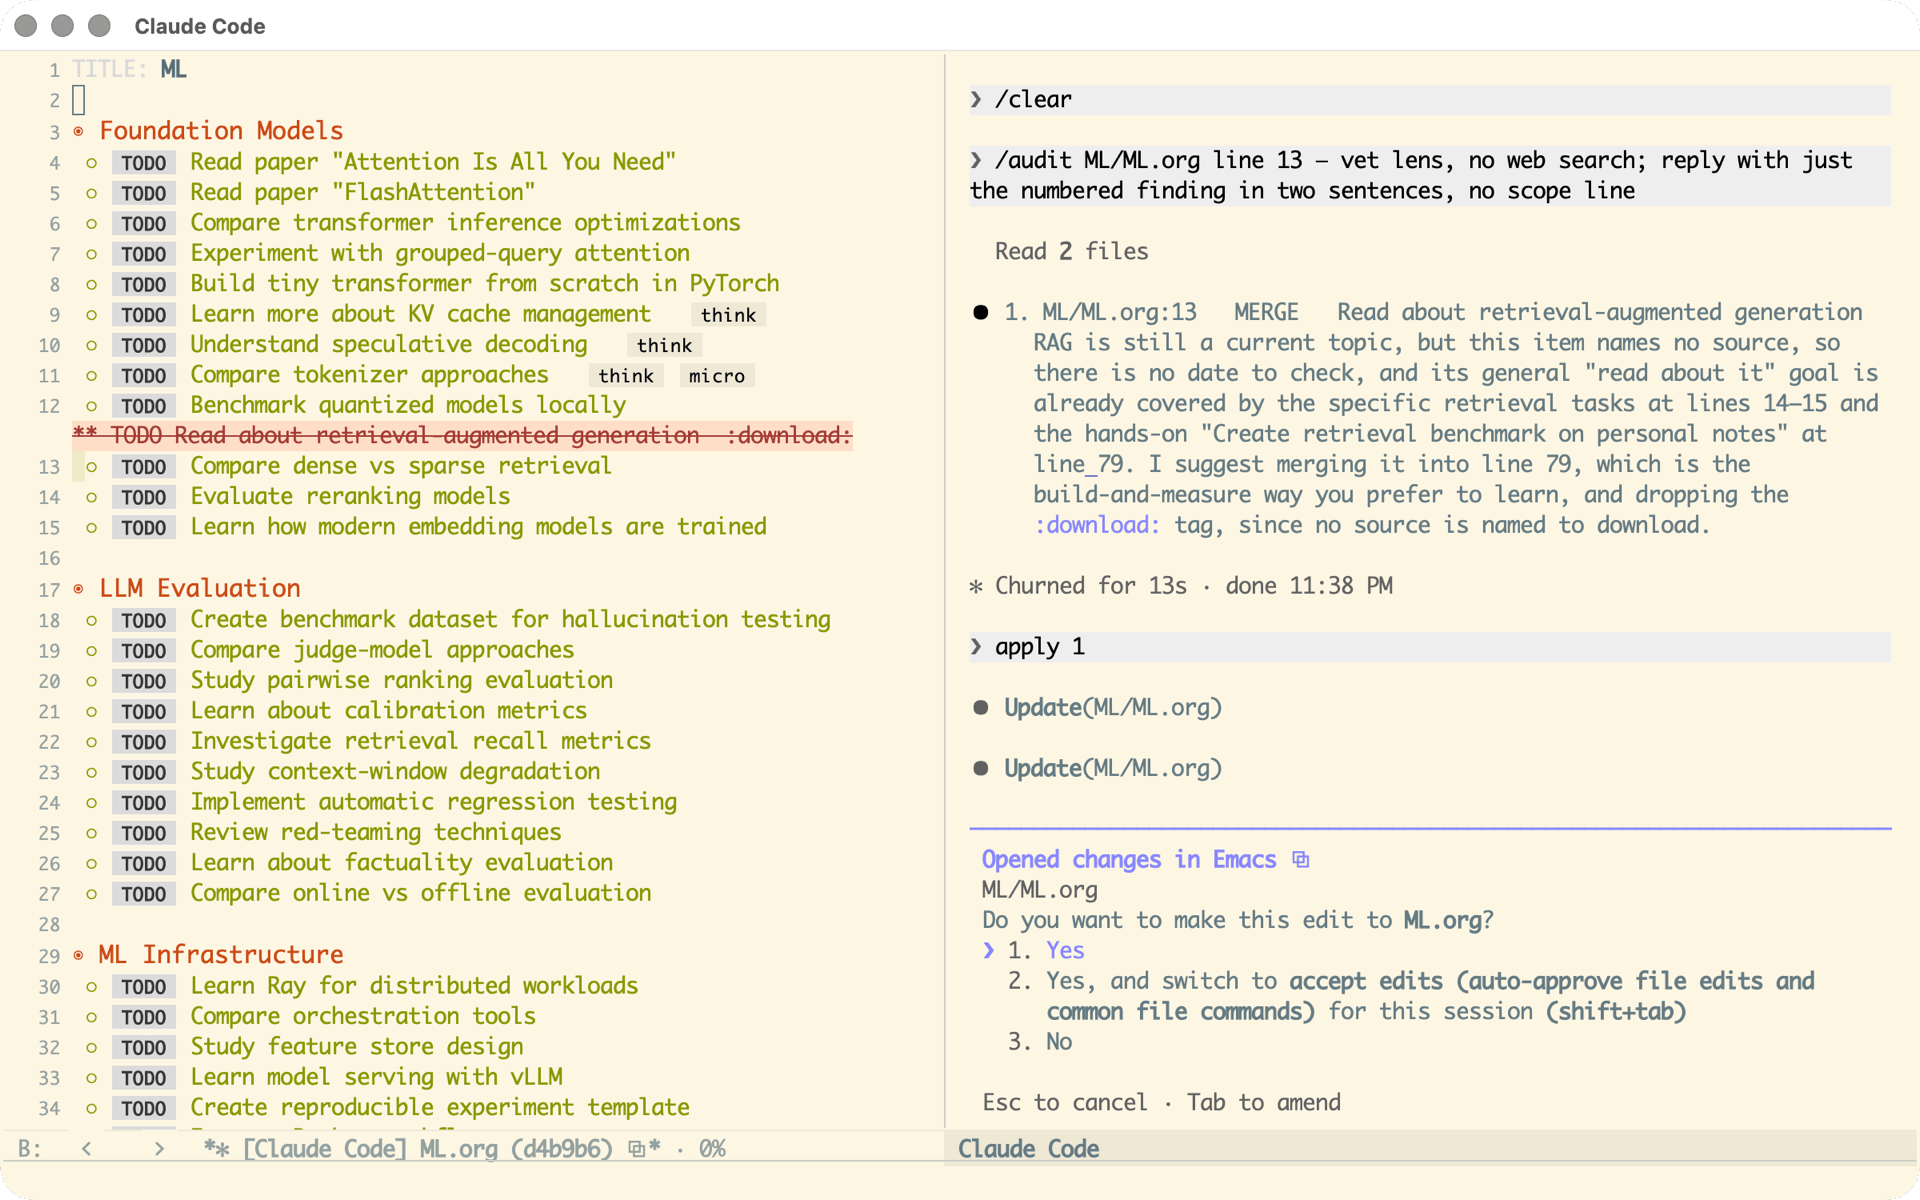
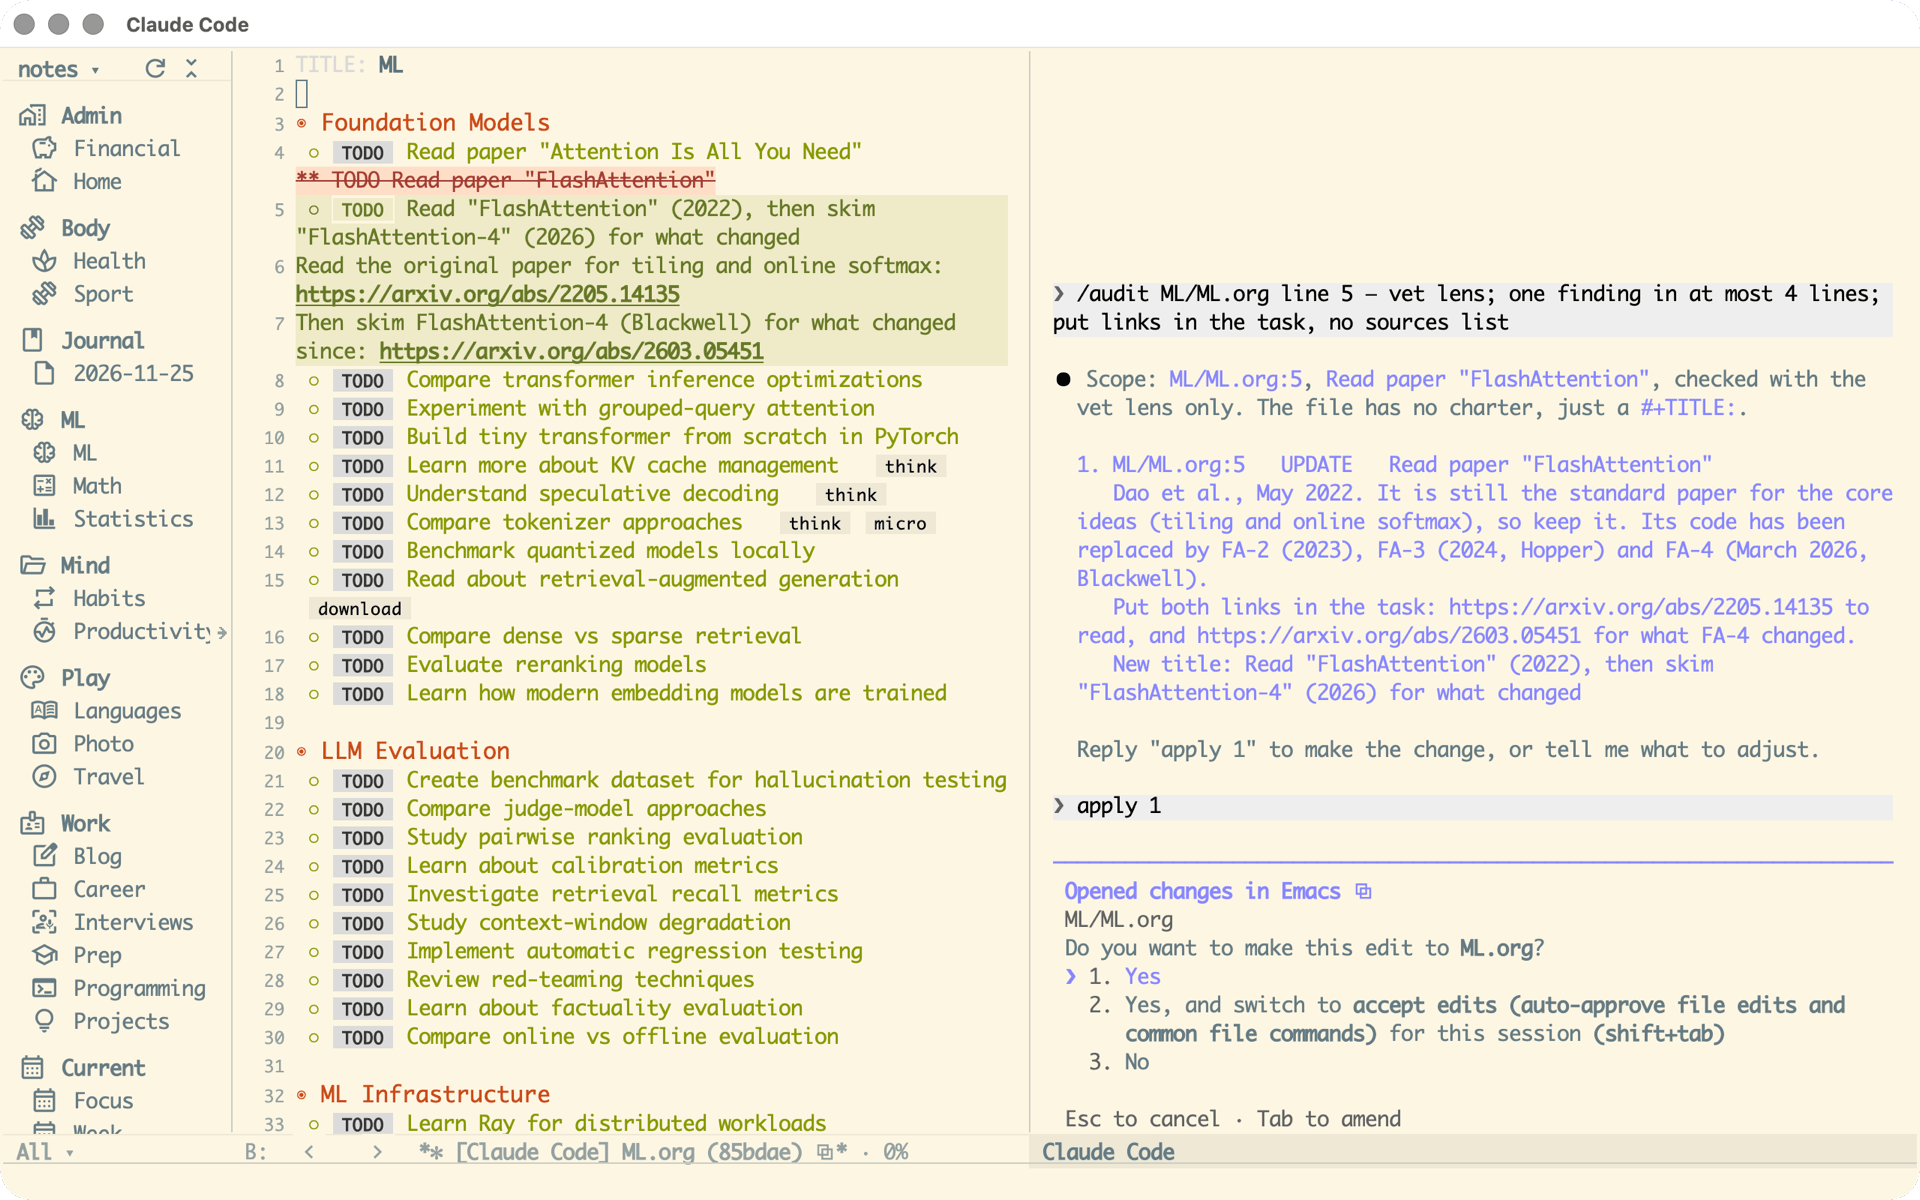
Redo the lead, situations and planning-tools shots, and fix midnight and Conflicts layout bugs
- The lead picture shows a whole /audit exchange at a glance: the file tree, the change inline in the plan, and the prompt, finding, reply and edit request beside it.
- The situations menu now drops from its button; planning tools shows the calendar day beside conflicts, with the coming weeks' free slots below.
- README: the capture inbox comes before /route (it works without the agent too), and a new "Make it yours" section shows two other themes.
- Between midnight and 4am, the schedule no longer draws every row double height, and today's items no longer read "1d ago".
- The Conflicts rule always spans the window, and long conflict lines wrap at words, indented under their text.

diff --git a/README.md b/README.md
@@ -9,7 +9,7 @@ Emacs configuration built for planning, so the editor looks like a modern tool f
 launch instead of like the 1980s.
 
 <p align="center">
-  <img src="screenshots/agent-audit.png" alt="The ML plan file with a change Claude Code proposed shown inline, the vague retrieval-augmented generation task struck out, and Claude Code beside it: the /audit prompt, its one finding (merge that task into the hands-on retrieval benchmark), the reply apply 1, and its request to make the edit" width="820">
+  <img src="screenshots/agent-audit.png" alt="The file tree, the ML plan file with a change Claude Code proposed shown inline (the FlashAttention reading task rewritten to start from the 2022 paper and then skim FlashAttention-4, with both arXiv links), and Claude Code beside it: the /audit prompt, its one finding, the reply apply 1, and its request to make the edit" width="820">
 </p>
 
 The assistant needs a Claude subscription; everything else works without it. The configuration
@@ -31,15 +31,17 @@ doubles as a complete `~/.emacs.d`, so you can use it whole or borrow pieces of 
   is worth keeping, whether you already have it, how to phrase it as a task and where it
   belongs. Both report numbered findings and change nothing until you pick which to apply.
 
-![The capture inbox's queue on the left and Claude Code on the right, asked to /route one day's items with one line each: two merges into existing tasks, a duplicate caught, and a new task, each with the plan file and section it goes to](screenshots/agent-route.png)
-
 - **It files what you captured.** The articles, papers and posts you forward to yourself during
   the day arrive as a numbered queue, prepared by the separate
   [agent-context-pipeline](https://github.com/anton-dergunov/agent-context-pipeline) project:
-  links resolved, the content extracted, related notes looked up. You read it in Emacs, drop
-  what is not worth keeping, and hand the rest to `/route`, which sees the same numbers.
+  links resolved, the content extracted, related notes looked up. You can work the queue
+  entirely by hand: read each item in Emacs, file it, drop what is not worth keeping.
 
 ![The capture inbox in Emacs: the queue of captured items by day, a paper selected, and below it what was extracted from it: its sources with authors and word counts, and its abstract as the lead](screenshots/capture-inbox.png)
+
+Or hand it to `/route`, which sees the same numbers and proposes where each item goes.
+
+![The capture inbox's queue on the left and Claude Code on the right, asked to /route one day's items with one line each: two merges into existing tasks, a duplicate caught, and a new task, each with the plan file and section it goes to](screenshots/agent-route.png)
 
 See [AI integration](docs/AI-integration.org) and [Info triage](docs/Info-triage.org) for how
 to set it up and steer it.
@@ -60,12 +62,12 @@ to set it up and steer it.
   hand, offline"), so an awkward gap in the day has an answer ready instead of turning into a
   scroll. Pick one from a menu, and open any task in it to see its notes.
 
-![The "A spare minute" situation with its switcher open, listing the other situations, and one of its tasks opened below with its notes](screenshots/situations.png)
+![The "A spare minute" situation with its switcher open below the Situations button, listing the other situations, and one of its tasks opened below with its notes](screenshots/situations.png)
 
 - **Planning tools**: free slots across the coming days, overlapping events, and shifting
   timestamps between time zones.
 
-![The agenda's schedule above the Conflicts view, which names the two overlapping meetings, and the Availability view, which lists the free slots of the coming days](screenshots/schedule.png)
+![The calendar for the day beside the Conflicts view, which names the two overlapping meetings, and below them the Availability view, one line of free slots per day for the coming two weeks](screenshots/schedule.png)
 
 ## An Emacs that looks and works right
 
@@ -104,6 +106,19 @@ checking that flags only what is likely wrong, and themes you can audition live 
 
 - **Background Git sync** of your Org folder, with its state in the mode line, and a one-time
   setup that keeps a Dropbox folder and Git from corrupting each other.
+
+## Make it yours
+
+Themes, fonts and the look of each part are set in one place, and the vault-specific settings
+(file icons, saved searches, file sets) live in the vault itself. The configuration is tuned for
+Solarized Light, but any theme works; here are two others:
+
+<p align="center">
+  <img src="screenshots/plan-file-tango.png" alt="The Career plan file in the Tango theme" width="49%">
+  <img src="screenshots/plan-file-modus-vivendi.png" alt="The Career plan file in the dark Modus Vivendi theme" width="49%">
+</p>
+
+See [Customization & appearance](docs/Customization.org) for the settings and the gallery.
 
 ## Quick start
 

diff --git a/screenshots/README.md b/screenshots/README.md
@@ -10,7 +10,7 @@ conversation can't be replayed by a script, so there isn't one.
 - PNG, 1920×1200 (16:10), the format of the blog's project pictures, with transparent rounded
   corners.
 - Solarized Light, the default theme. Other themes appear only in the docs' gallery.
-- Frame 1067×667 points, or 1200×750 for the two agent scenes, which need room for the Claude
+- Frame 1067×667 points; 1280×800 for the lead and 1200×750 for `/route`, which need room for the Claude
   Code panel. The frame is small on purpose: scaled to 1920 pixels wide, its text comes out
   large enough to read on a project card.
 
@@ -50,14 +50,14 @@ In carousel order. The blog uses 1, 2, 4, 5, 6 and 9.
 
 | # | File | Scene |
 |---|---|---|
-| 1 | `agent-audit.png` | 1200×750, no file tree. `ML/ML.org`, Claude Code at 72 columns in manual mode (Shift+Tab until the footer says so, or edits won't wait for review). `/clear`, then `/audit ML/ML.org line 13 — vet lens, no web search; reply with just the numbered finding in two sentences, no scope line`, then `apply 1`. When the Ediff opens, `M-x ps/screenshot-inline-diff` shows the change inline in the proposed buffer. The prompt, the reply and the edit request must all be on screen; if not, narrow the prompt rather than editing what Claude wrote. Cancel the edit afterwards. |
+| 1 | `agent-audit.png` | 1280×800. File tree at 19 columns, `ML/ML.org`, Claude Code at 70 columns, a fresh session in manual mode (Shift+Tab until the footer says so). `/audit ML/ML.org line 5 — vet lens; one finding in at most 4 lines; put links in the task, no sources list`; approve its web reads; then `apply 1` and `M-x ps/screenshot-inline-diff`. A composite: take one capture when the reply is done and one at the edit prompt, then rebuild the panel from the prompt, the reply, `apply 1` and the edit dialog, leaving out the tool-call lines (searches, fetches, "Update"). Line positions come from `posn-at-point` in the panel; everything outside the panel is the second capture unchanged. |
 | 2 | `agent-route.png` | 1200×750. `triage.org` of the sample queue, Claude Code beside it. `/clear`, then `/route the triage inbox, items from 2026-08-18: exactly one short line per item (decision → file § section), no explanations; stay in this folder, no web search`. Approve only read-only commands inside the notes folder; decline anything that looks outside it. |
 | 3 | `capture-inbox.png` | `C-c p I`, RET on item 4 (the paper). Queue scrolled to its first day, `index.md` scrolled to its Sources. |
 | 4 | `agenda.png` | File tree + `C-c p a`, point on the first scheduled task. |
-| 5 | `schedule.png` | The agenda (16 lines) above `ps/show-conflicts` (10 lines) above `ps/org-show-availability`, all full width. |
+| 5 | `schedule.png` | No file tree. The Calendar's day view (`C-c p c d`) top left, `ps/show-conflicts` (Include past on) top right, `ps/org-show-availability` in its inline layout across the bottom, about 14 lines. Redraw the Calendar and Conflicts once their windows have their final widths. |
 | 6 | `plan-file.png` | `Work/Career.org` from the top, point at the end of line 12. |
 | 7 | `file-tree.png` | Tree widened to 62 columns, `ML` (the file) expanded, then its "Foundation Models" and "LLM Evaluation" headings; `ML/ML.org` beside it. |
-| 8 | `situations.png` | `C-c p S m`, then TAB on "Map current strengths and weaknesses" (the task opens below), then the "Situations ▾" menu open. The menu is modal: open it from a timer with a click posn about 390 px into the agenda window, grab the frame region from the shell with `screencapture -R`, press Escape, then round the corners with `ps/screenshot--round-corners`. |
+| 8 | `situations.png` | Tree at 17 columns. `C-c p S m`, the task "Map current strengths and weaknesses" open in an 11-line window below, then the "Situations ▾" menu open as a dropdown. The menu is modal: open it from a timer with a click posn about 330 pt left of the button's right edge, just under it, grab the frame region from the shell with `screencapture -R`, press Escape, then round the corners with `ps/screenshot--round-corners`. |
 | 9 | `blank-lines.png` | In the playground from `scripts/make_blank_line_playground.sh`, F7, then `d` on `Body/Health.org`; report narrowed to 60 columns, panes balanced, `ps/screenshot-hide-ediff-control`. |
 
 `plan-file-tango.png` and `plan-file-modus-vivendi.png` repeat shot 6 under those themes
